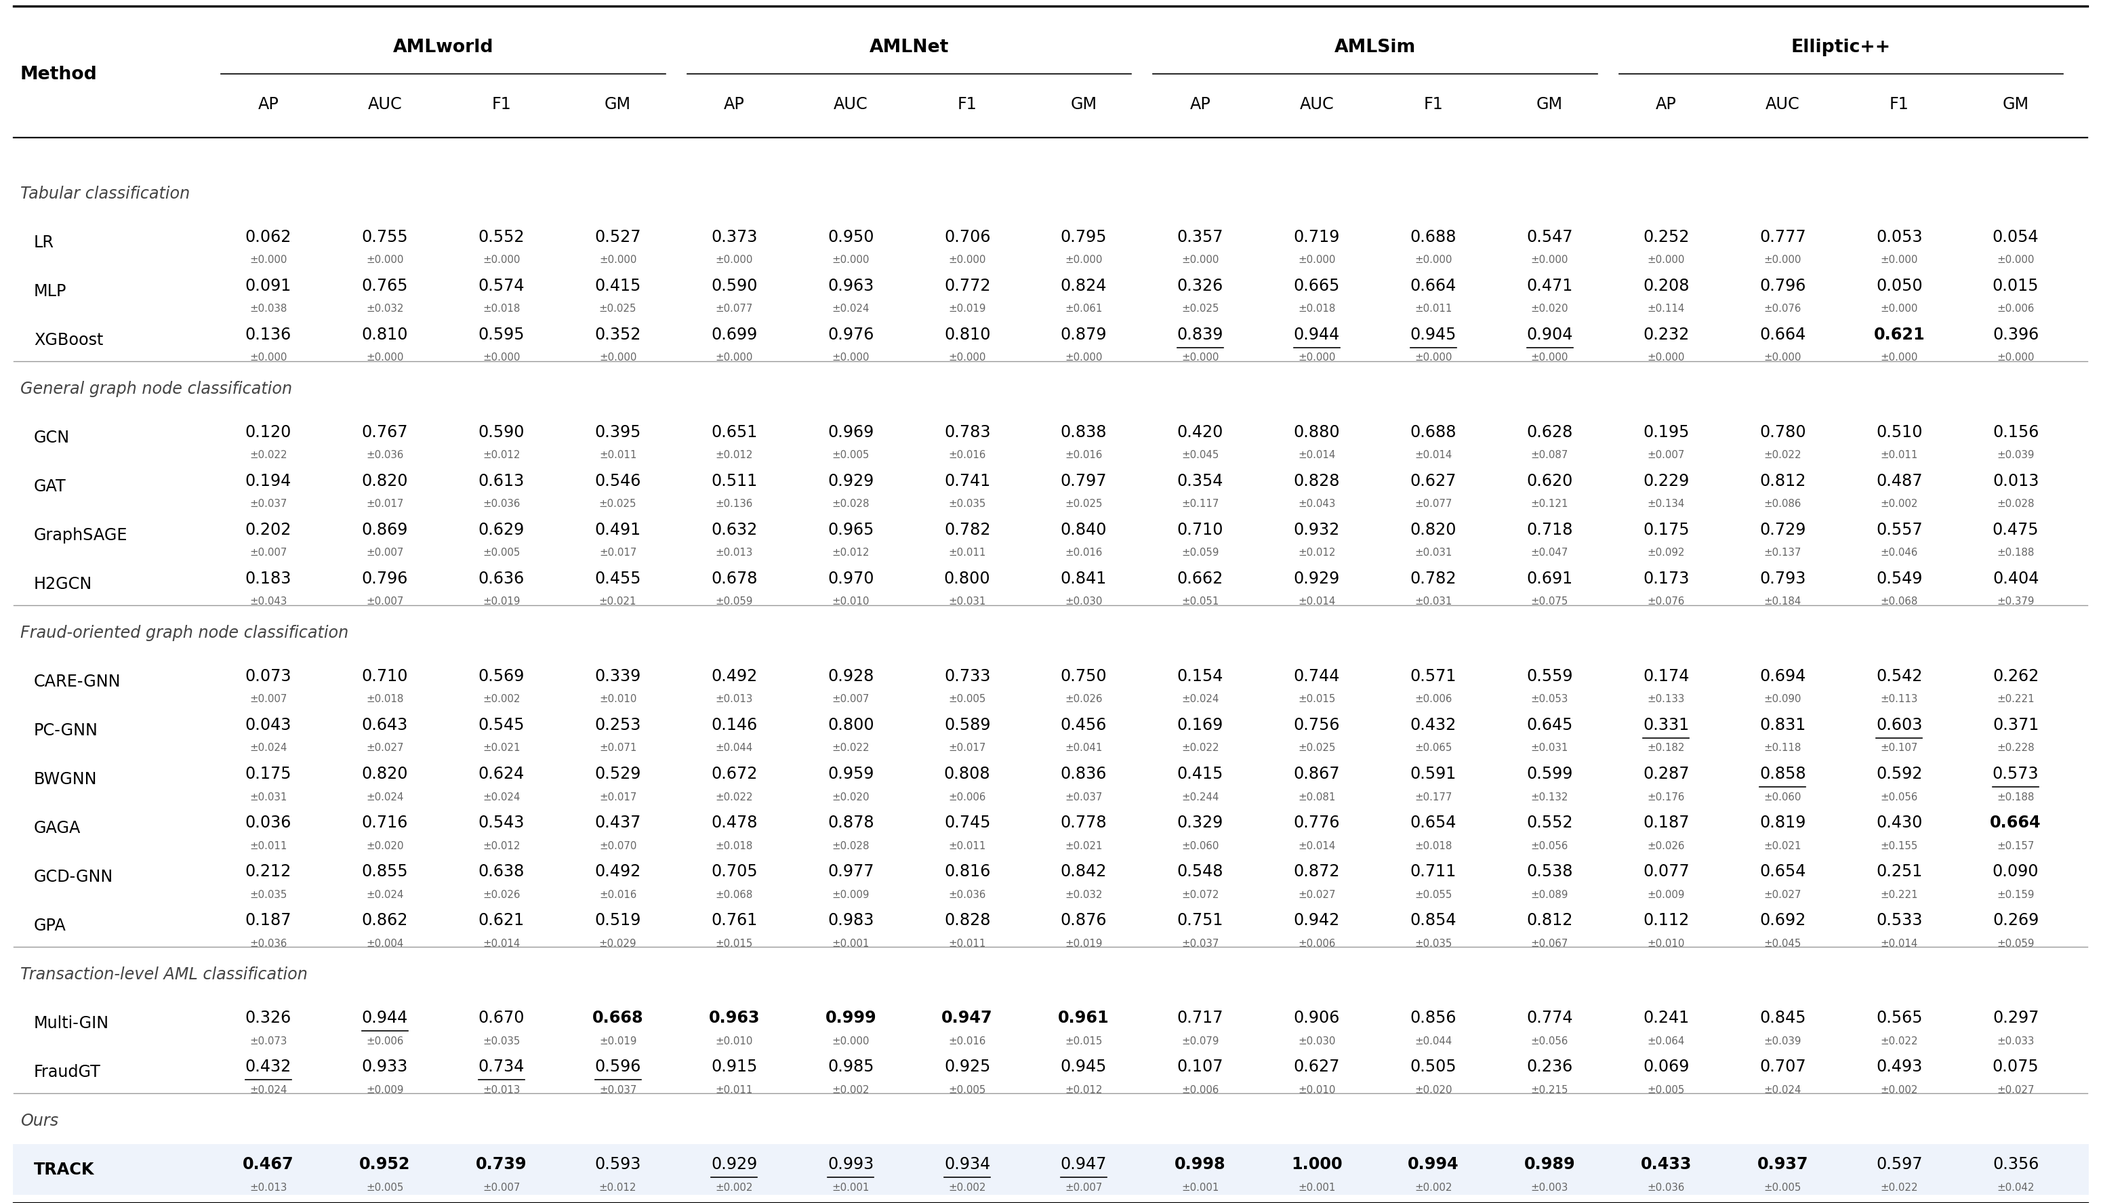
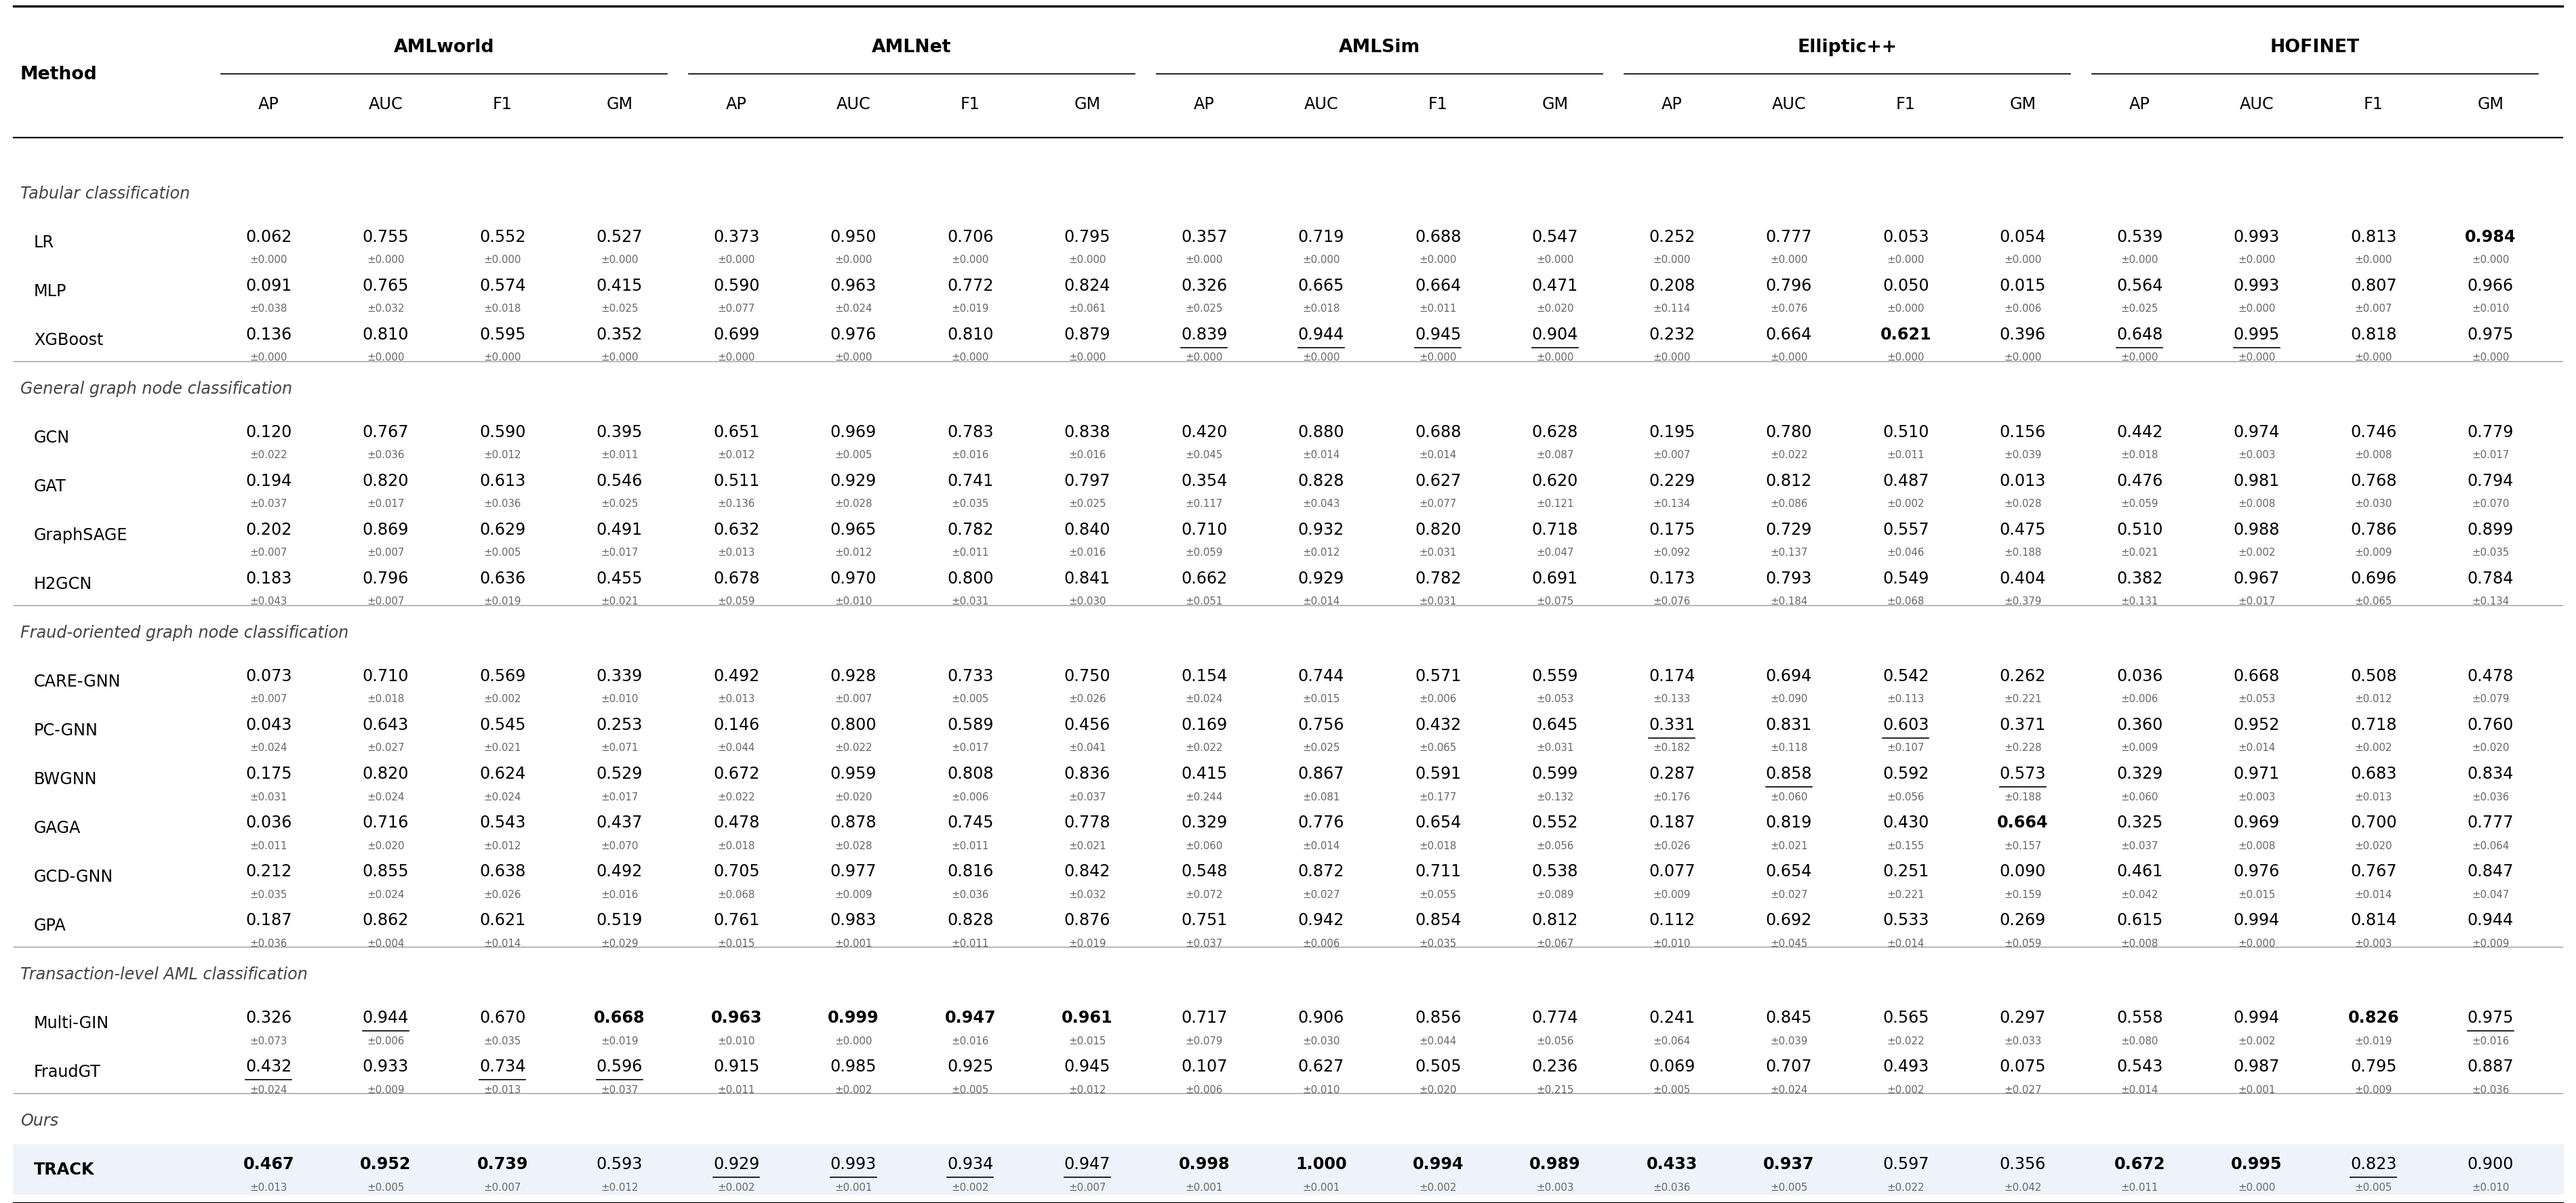
Add HOFINET from AI Hub
Loader for the AI Hub synthetic interbank network (dataset 71925),
reading its transfer table with the original Korean header. The main
table image and dataset guide now include HOFINET.

diff --git a/_datasets/loaders.py b/_datasets/loaders.py
@@ -128,6 +128,54 @@ def load_ellipticpp_wallet(max_day: float = np.inf):
     return ev, acc, y
 
 
+def load_hofinet(max_day: float = np.inf):
+    """HOFINET, a synthetic interbank settlement network from AI Hub.
+
+    AI Hub dataset 71925 (https://www.aihub.or.kr/aihubdata/data/view.do?dataSetSn=71925)
+    is generated to reflect patterns in real electronic fund transfers. Its
+    labels mark anomalous transfers -- new recipient, structuring, late-night
+    bulk -- rather than laundering typologies, but the bag structure is the
+    same: 74.9% of flagged accounts have exactly one flagged transaction.
+
+    Reads the transfer table with its original Korean header, saved as
+    datasets/hofinet/HOFINET.txt (comma-separated, UTF-8).
+    """
+    raw = REPO / "datasets/hofinet/HOFINET.txt"
+    raw_columns = {
+        "거래일자": "date",                   # YYYYMMDD
+        "거래시간대": "hour",                 # 0-23
+        "출금금융회사일련번호": "fb",         # sending institution
+        "출금계좌일련번호": "fa",             # sending account
+        "입금금융회사일련번호": "tb",         # receiving institution
+        "입금계좌일련번호": "ta",             # receiving account
+        "자금구분": "fund",
+        "매체구분": "medium",
+        "거래금액": "amount",
+        "이상거래여부": "flag",
+    }
+    df = pd.read_csv(raw, usecols=list(raw_columns),
+                     dtype={k: "string" for k in list(raw_columns)[2:6]},
+                     encoding="utf-8-sig").rename(columns=raw_columns)
+    dt = pd.to_datetime(df["date"].astype(str), format="%Y%m%d")
+    day = (dt - dt.min()).dt.days + df["hour"] / 24.0
+    keep = day <= max_day
+    df, day = df[keep], day[keep]
+    ev = pd.DataFrame({
+        "source": df["fb"].astype(str) + ":" + df["fa"].astype(str),
+        "target": df["tb"].astype(str) + ":" + df["ta"].astype(str),
+        "t": day.to_numpy() * 24.0,
+        "amount": df["amount"].fillna(0.0).to_numpy(),
+        "flag": df["flag"].to_numpy(),
+        "hour": df["hour"].to_numpy(),
+        "ch1": df["fund"].astype("category").cat.codes.to_numpy(),
+        "ch2": df["medium"].astype("category").cat.codes.to_numpy(),
+    })
+    acc = _account_index(ev)
+    fl = ev[ev.flag == 1]
+    y = acc.isin(set(fl.source) | set(fl.target)).astype(np.int64)
+    return ev, acc, y
+
+
 def load_amlsim(max_day: float = np.inf):
     """AMLSim, the IBM simulator behind much of the earlier AML GNN work.
 
@@ -175,4 +223,5 @@ def load_amlsim(max_day: float = np.inf):
 # unknown/3 encoding is mapped, and the 166 shared features agreeing to 4e-16.
 
 LOADERS = {"amlworld": load_amlworld, "amlnet": load_amlnet,
-           "amlsim": load_amlsim, "ellipticpp": load_ellipticpp_wallet}
+           "amlsim": load_amlsim, "ellipticpp": load_ellipticpp_wallet,
+           "hofinet": load_hofinet}

diff --git a/_datasets/README.md b/_datasets/README.md
@@ -9,15 +9,24 @@ own terms. `fetch.py` downloads the two whose hosts allow scripted downloads.
 | AMLNet | 11,000 | 1,088,410 | 13.35% | Zenodo record `16736515` |
 | AMLSim | 9,999 | 1,323,234 | 16.39% | Kaggle `anshankul/ibm-amlsim-example-dataset` |
 | Elliptic++ | 265,354 | 1,661,916 | 5.38% | https://github.com/git-disl/EllipticPlusPlus |
+| HOFINET | 452,816 | 4,732,130 | 2.13% | AI Hub dataset 71925 |
 
 The counts are what the loaders return after each loader's tail cut. They are
 not the raw upstream file sizes. "Suspicious accounts" is the share of accounts
 that are ever flagged. The share of `(account, window)` samples flagged in the
-test window is lower: 0.46%, 2.25%, 4.23% and 5.24% in the order above.
+test window is lower: 0.46%, 2.25%, 4.23%, 5.24% and 1.31% in the order above.
 
 **AMLSim** is a published snapshot of IBM's AMLSim generator, not output we
 produced. Its publisher does not document the generator configuration behind
 the snapshot, so the snapshot itself is the reproducible artifact.
+
+**HOFINET** is a synthetic interbank settlement network published on AI Hub
+("이상 판별을 위한 금융거래 정보 및 사용자 패턴 합성데이터",
+https://www.aihub.or.kr/aihubdata/data/view.do?dataSetSn=71925). It is
+generated to reflect patterns in real electronic fund transfers. AI Hub
+requires an account to download and applies its own terms of use. The counts
+above are from the release used in the paper; AI Hub updated the dataset in
+June 2026, so a newer download may give slightly different numbers.
 
 ## Retrieval
 
@@ -30,7 +39,9 @@ python _datasets/fetch.py amlnet
 AMLworld needs a Kaggle API token at `~/.kaggle/kaggle.json`
 (see https://www.kaggle.com/docs/api). AMLNet is public on Zenodo.
 
-Download AMLSim and Elliptic++ by hand from the links above. Every dataset is
+Download AMLSim, Elliptic++ and HOFINET by hand from the links above. For
+HOFINET, save the electronic-transfer table (header starting with `거래일자`)
+as `datasets/hofinet/HOFINET.txt`. Every dataset is
 read from `datasets/<name>/`, which this repository ignores:
 
 ```
@@ -38,13 +49,14 @@ datasets/
 ├── amlworld/HI-Small_Trans.csv
 ├── amlnet/AMLNet_August 2025.csv
 ├── amlsim/transactions.csv
-└── ellipticpp/
-    ├── actors/AddrTx_edgelist.csv
-    ├── actors/TxAddr_edgelist.csv
-    ├── actors/wallets_features.csv
-    ├── actors/wallets_classes.csv
-    ├── transactions/txs_features.csv
-    └── transactions/txs_classes.csv
+├── ellipticpp/
+│   ├── actors/AddrTx_edgelist.csv
+│   ├── actors/TxAddr_edgelist.csv
+│   ├── actors/wallets_features.csv
+│   ├── actors/wallets_classes.csv
+│   ├── transactions/txs_features.csv
+│   └── transactions/txs_classes.csv
+└── hofinet/HOFINET.txt
 ```
 
 ## What the loaders return

diff --git a/README.md b/README.md
@@ -34,8 +34,6 @@ marks the best and underline the second best in each column.
 
 ![Main results](assets/main_table.png)
 
-The paper also reports a non-public interbank network. It is not included here.
-
 ## Setup
 
 ```bash
@@ -54,7 +52,7 @@ command:
 python _datasets/fetch.py      # AMLworld needs a Kaggle token at ~/.kaggle/kaggle.json
 ```
 
-AMLSim and Elliptic++ are downloaded by hand. See
+AMLSim, Elliptic++ and HOFINET are downloaded by hand. See
 [`_datasets/README.md`](_datasets/README.md) for the sources, licences and the
 folder layout the loaders expect.
 
@@ -73,7 +71,7 @@ python run_track.py \
     --device cuda:0
 ```
 
-`--dataset` is one of `amlworld`, `amlnet`, `amlsim`, `ellipticpp`. The other
+`--dataset` is one of `amlworld`, `amlnet`, `amlsim`, `ellipticpp`, `hofinet`. The other
 arguments above are the paper's settings.
 
 - `--split temporal` orders transactions by time and cuts them 60/20/20 into
